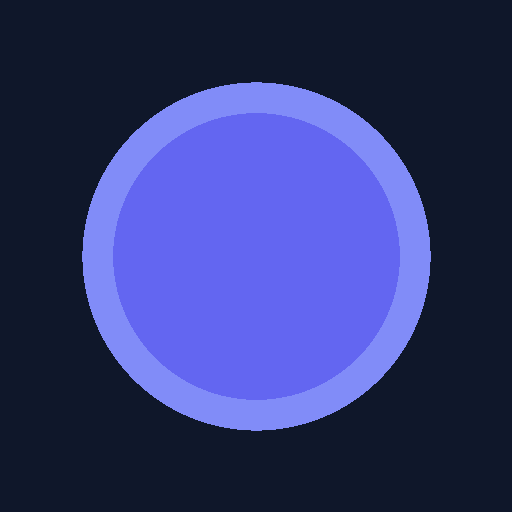
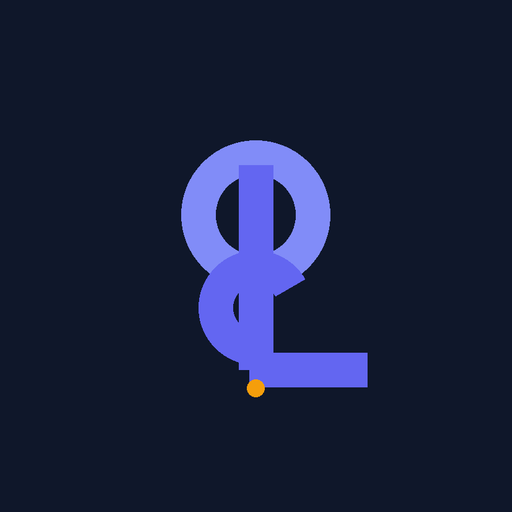
Nyt SLO/g-nøgle-ikon og omdøb til Songlist Organizer

diff --git a/index.html b/index.html
@@ -3,13 +3,13 @@
 <head>
   <meta charset="UTF-8">
   <meta name="viewport" content="width=device-width, initial-scale=1.0">
-  <title>Sætliste Organizer</title>
+  <title>Songlist Organizer</title>
   <link rel="manifest" href="manifest.json">
   <meta name="theme-color" content="#6366f1">
   <link rel="apple-touch-icon" href="icons/icon-192.png">
   <meta name="apple-mobile-web-app-capable" content="yes">
   <meta name="apple-mobile-web-app-status-bar-style" content="black-translucent">
-  <meta name="apple-mobile-web-app-title" content="Sætliste">
+  <meta name="apple-mobile-web-app-title" content="Songlist">
   <style>
     :root {
       --primary: #1a2332;

diff --git a/tjekliste.html b/tjekliste.html
@@ -9,7 +9,7 @@
   <link rel="apple-touch-icon" href="icons/icon-192.png">
   <meta name="apple-mobile-web-app-capable" content="yes">
   <meta name="apple-mobile-web-app-status-bar-style" content="black-translucent">
-  <meta name="apple-mobile-web-app-title" content="Sætliste">
+  <meta name="apple-mobile-web-app-title" content="Songlist">
 
   <style>
     :root {

diff --git a/make_icon.py b/make_icon.py
@@ -1,0 +1,71 @@
+"""Generer SLO/g-nogle app-ikon i tre stoerrelser."""
+from PIL import Image, ImageDraw
+import math
+
+BG = (15, 23, 42)        # #0f172a
+ACCENT = (99, 102, 241)  # #6366f1
+ACCENT_LIGHT = (129, 140, 248)  # #818cf8
+GOLD = (245, 158, 11)    # #f59e0b
+
+
+def draw_icon(size, pad_ratio=0.08, path=None):
+    scale = size / 512.0
+    img = Image.new('RGBA', (size, size), BG + (255,))
+    d = ImageDraw.Draw(img)
+    S = lambda v: v * scale
+
+    cx = size / 2
+    top = S(90)
+    line_w = S(56)
+
+    # O: stoer cirkel i toppen (g-noglens oevre loekke)
+    ox, oy = cx, S(190)
+    orad = S(120)
+    d.ellipse([ox - orad, oy - orad, ox + orad, oy + orad],
+              outline=ACCENT_LIGHT, width=max(2, int(line_w)))
+
+    # S: lodret streg fra O og ned gennem hele ikonet (g-noglens stamme)
+    # buer let som en S-kurve
+    stem_top = S(110)
+    stem_bot = S(440)
+    d.line([cx, stem_top, cx, stem_bot], fill=ACCENT, width=max(2, int(line_w)))
+
+    # L: vandret fod i bunden (L'ens fod) + lille lodret start
+    foot_y = S(440)
+    foot_x1 = cx - S(10)
+    foot_x2 = cx + S(180)
+    d.line([foot_x1, foot_y, foot_x2, foot_y], fill=ACCENT, width=max(2, int(line_w)))
+
+    # S-kurven i bunden: buet del (nederste loekke paa g-noglen)
+    srx, sry = cx, S(340)
+    srr = S(92)
+    d.arc([srx - srr, sry - srr, srx + srr, sry + srr],
+          start=90, end=330, fill=ACCENT, width=max(2, int(line_w)))
+
+    # lille g-nogle-detalje: prik under (typisk for g-noglen)
+    dot_r = S(14)
+    dy = S(470)
+    d.ellipse([cx - dot_r, dy - dot_r, cx + dot_r, dy + dot_r], fill=GOLD + (255,))
+
+    if path:
+        img.save(path)
+    return img
+
+
+def draw_icon_maskable(size, path):
+    # maskable: samme motiv, men skaleret ned med mere margen
+    img = Image.new('RGBA', (size, size), BG + (255,))
+    inner = draw_icon(size, pad_ratio=0.30)
+    # tegn motivet mindre: simuler ved at tegne paa og skalere
+    big = draw_icon(size)
+    small = big.resize((int(size * 0.62), int(size * 0.62)), Image.LANCZOS)
+    off = (size - small.width) // 2
+    img.paste(small, (off, off), small)
+    img.save(path)
+
+
+if __name__ == '__main__':
+    draw_icon(192, path='icons/icon-192.png')
+    draw_icon(512, path='icons/icon-512.png')
+    draw_icon_maskable(512, path='icons/icon-maskable-512.png')
+    print('ok')
